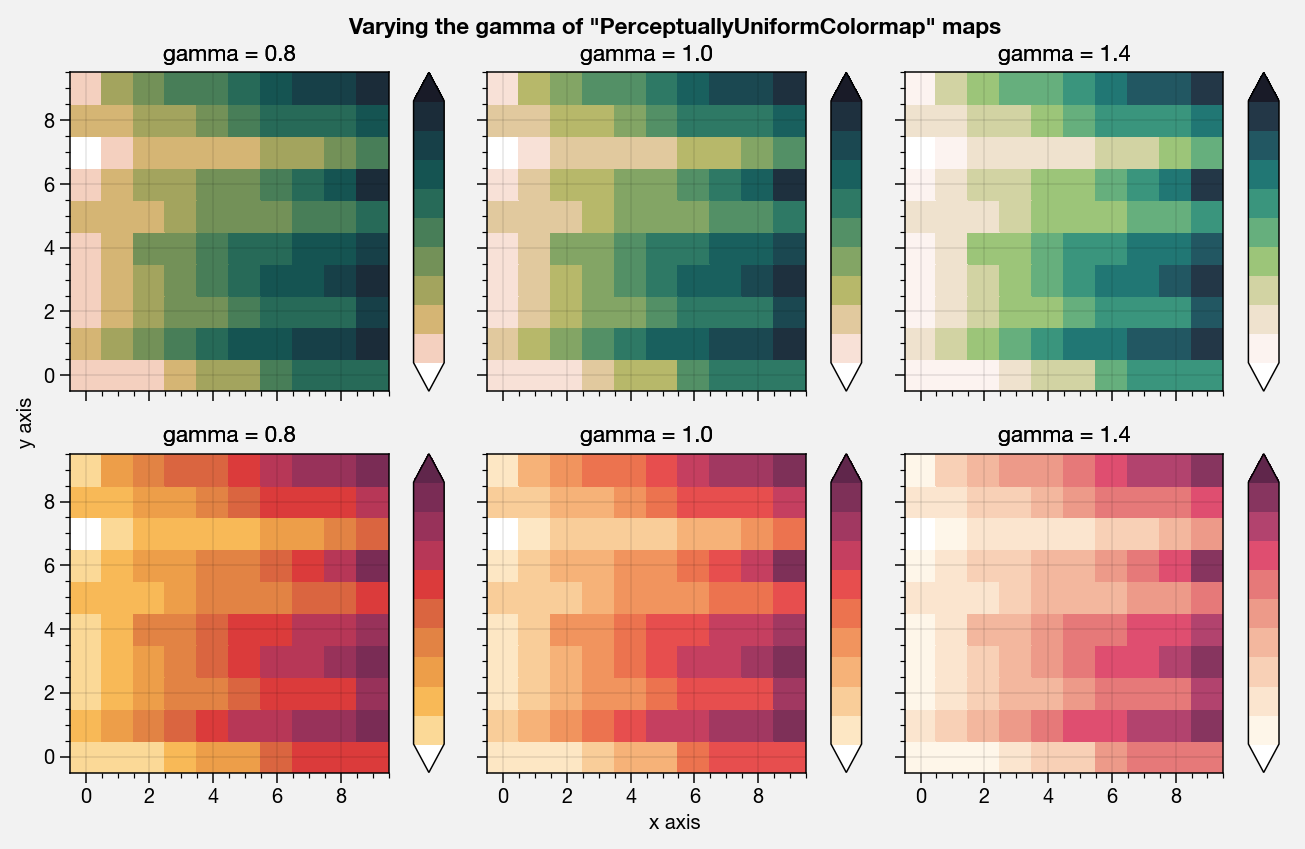
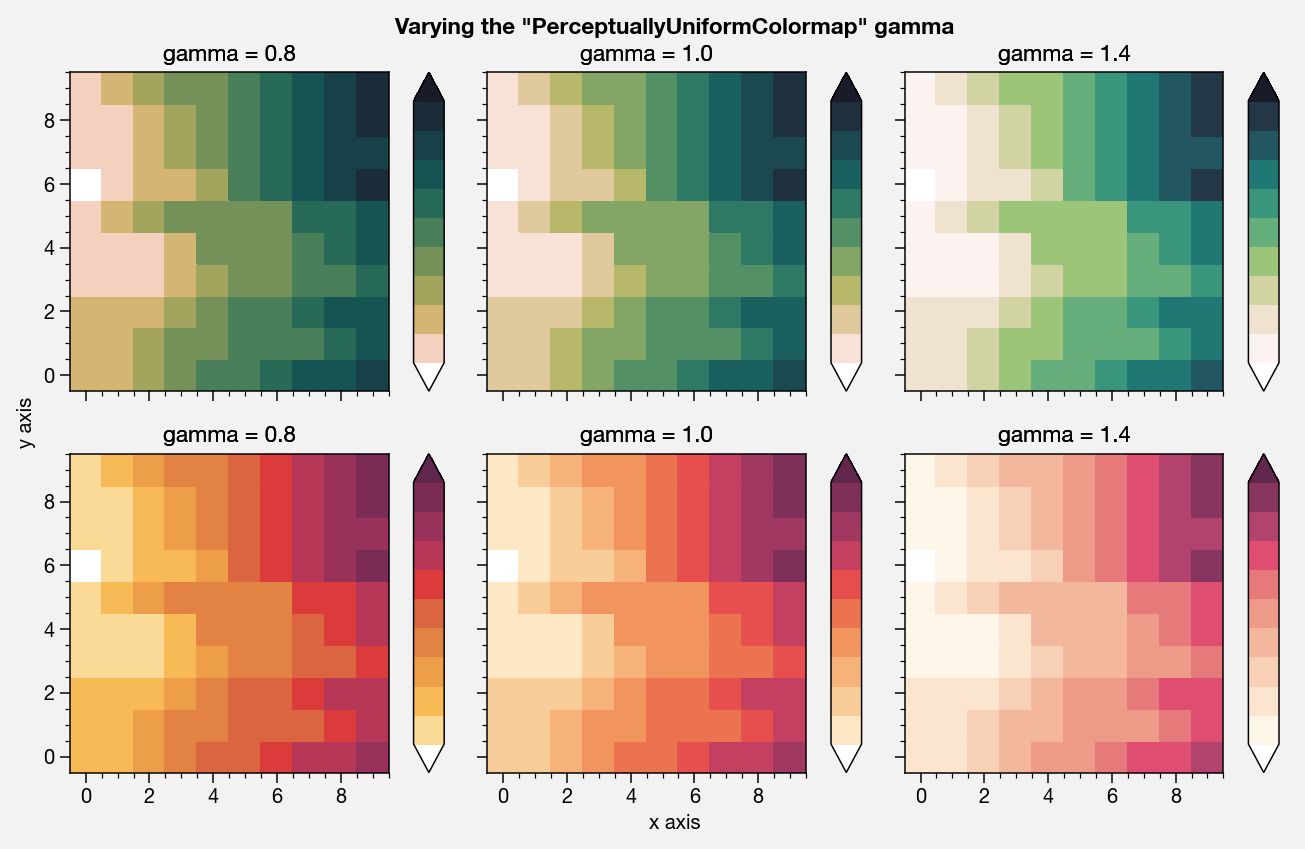
Showcase

diff --git a/docs/showcase.rst b/docs/showcase.rst
@@ -1595,12 +1595,11 @@ On-the-fly colormaps
 --------------------
 
 You can make a new colormap with ProPlot’s on-the-fly colormap
-generator! Every ``cmap`` argument for the commands in the
-`~proplot.axes.cmap_methods` list (like
-`~matplotlib.axes.Axes.contourf` and
-`~matplotlib.axes.Axes.pcolormesh`) is passed to the
-`~proplot.colortools.Colormap` constructor, as are keyword args
-specified with ``cmap_kw``. See `~proplot.colortools.Colormap` and
+generator! Every command that accepts a ``cmap`` argument (see
+`~proplot.axes.cmap_methods`) is passed to the
+`~proplot.colortools.Colormap` constructor.
+`~proplot.colortools.Colormap` keyword arguments can be specified with
+``cmap_kw``. See `~proplot.colortools.Colormap` and
 `~proplot.axes.wrapper_cmap` for details.
 
 Since all of the SciVisColor colormaps from the “ColorMoves” GUI are
@@ -1662,8 +1661,8 @@ string with ``+N`` or ``-N`` to offset the channel value by the number
                    levels=plot.arange(0.1,0.9,0.1), extend='both',
                    )
     ax.bpanel.colorbar(m, label='colormap')
-    ax.format(xlabel='x axis', ylabel='y axis', title='Warm colors',
-              suptitle='On-the-fly "PerceptuallyUniformColormap"s')
+    ax.format(xlabel='x axis', ylabel='y axis', title='Reminiscent of "Matter"',
+              suptitle='On-the-fly "PerceptuallyUniformColormap"')
     ax = axs[1]
     m = ax.contourf(np.random.rand(10,10),
                    cmap={'h':['red', 'red-720'], 'c':[80,20], 'l':[20, 100], 'space':'hpl'},
@@ -1750,7 +1749,7 @@ details.
             ax = axs[i]
             m1 = ax.pcolormesh(data, cmap=cmap, cmap_kw={'gamma':gamma}, levels=10, extend='both')
             ax.rightpanel.colorbar(m1, clocator='none')
-            ax.format(title=f'gamma = {gamma}', xlabel='x axis', ylabel='y axis', suptitle='Varying the gamma of "PerceptuallyUniformColormap" maps')
+            ax.format(title=f'gamma = {gamma}', xlabel='x axis', ylabel='y axis', suptitle='Varying the "PerceptuallyUniformColormap" gamma')
             i += 1
 
 
